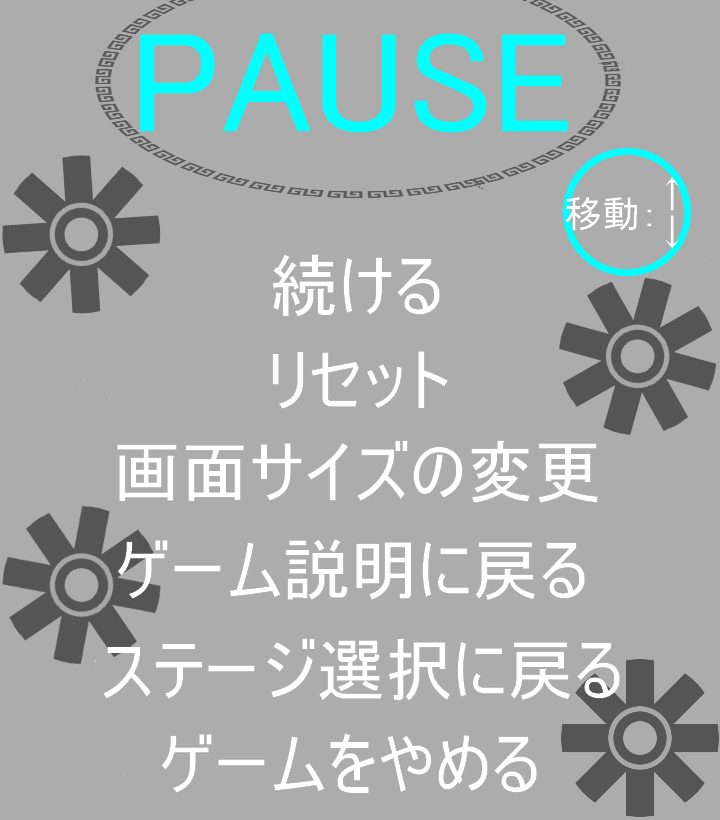
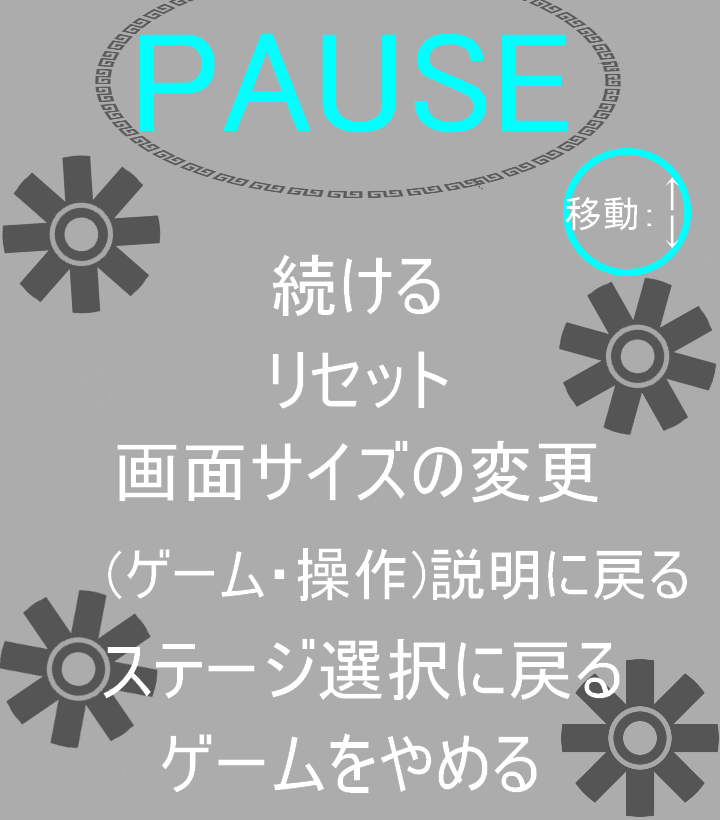
Pause押すと SE停止,Pause画面のResource変更

Changed region(s): [[0.0, 0.6098, 0.9778, 0.9146]]

diff --git a/scene/GameScene.cpp b/scene/GameScene.cpp
@@ -33,6 +33,7 @@ void GameScene::Initialize() {
 	textureHandle_[11] = TextureManager::Load("4.png"); //背景4
 	textureHandle_[12] = TextureManager::Load("Operation.png"); //操作説明
 	textureHandle_[13] = TextureManager::Load("5.png"); //背景5
+    
 
 
 	//スプライトを生成
@@ -55,7 +56,7 @@ void GameScene::Initialize() {
 	PauseSelect_ = Sprite::Create(textureHandle_[10], { 770,330 });
 	PauseSelect2_ = Sprite::Create(textureHandle_[10], { 770,425 });
 	PauseSelect3_ = Sprite::Create(textureHandle_[10], { 615,515 });
-	PauseSelect4_ = Sprite::Create(textureHandle_[10], { 615,615});
+	PauseSelect4_ = Sprite::Create(textureHandle_[10], { 605,615});
 	PauseSelect5_ = Sprite::Create(textureHandle_[10], { 602,715 });
 	PauseSelect6_ = Sprite::Create(textureHandle_[10], { 661,810 });
 	Operation_= Sprite::Create(textureHandle_[12], {0,0});
@@ -136,6 +137,8 @@ void GameScene::Update() {
 				scene_ = SEVEN;
 				SceneStageFlag5 = 0;
 			}
+
+			
 		}
 
 	case STAGECHOICE:
